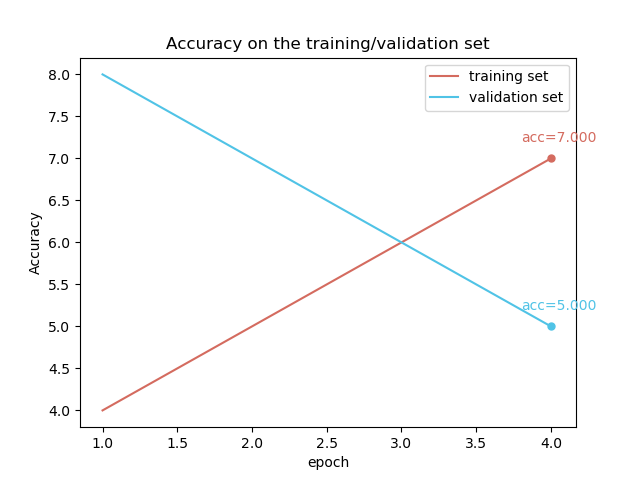
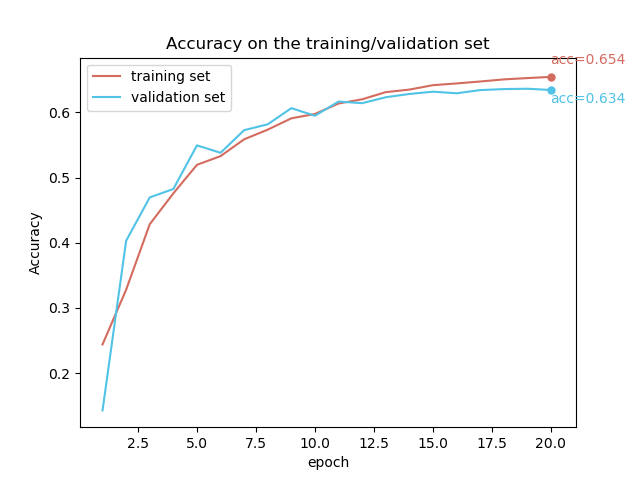
add confusion matrix and fix bugs

diff --git a/util.py b/util.py
@@ -1,27 +1,67 @@
 import torch
 from torchvision import transforms
 import matplotlib.pyplot as plt
+from sklearn.metrics import confusion_matrix
+import itertools
+import numpy as np
 import os
 
-def load_model(model, model_dir):
-    return model.load_state_dict(torch.load(os.path.join(model_dir, "model.pth")))
+def load_model(model, model_dir, model_name):
+    model.load_state_dict(torch.load(os.path.join(model_dir, "{}.pth".format(model_name))))
 
-def save_model(model, model_dir):
+def save_model(model, model_dir, model_name):
     if(not os.path.exists(model_dir)):
         os.makedirs(model_dir)
-    torch.save(model.state_dict(), os.path.join(model_dir, "model.pth"))
+    torch.save(model.state_dict(), os.path.join(model_dir, "{}.pth".format(model_name)))
 
 
-def plot_performance(loss_epoch, train_acc_epoch, val_acc_epoch, out_dir):
+def plot_confusion_matrix(labels, predicted , out_dir, normalize=True):
     if(not os.path.exists(out_dir)):
         os.makedirs(out_dir)
 
-    x = list(range(1, len(loss_epoch)+1))
+    matrix = confusion_matrix(labels, predicted)
+    # print(matrix)
+    if normalize:
+        matrix = matrix.astype('float') / matrix.sum(axis=1)[:, np.newaxis]
+    # print(matrix)
 
-    plt.plot(x, loss_epoch, color='#d46b5f')
+    classes = ['Angry', 'Disgust', 'Fear', 'Happy', 'Sad', 'Surprise', 'Neutral']
+
+    plt.imshow(matrix, interpolation='nearest', cmap=plt.cm.Reds)
+    plt.title("Confusion Matrix", fontsize=18)
+    plt.colorbar()
+    ticks = np.arange(len(classes))
+    plt.xticks(ticks, classes, rotation=45) # x: predicted
+    plt.yticks(ticks, classes) # y: true
+
+    threshold = matrix.max() / 2.
+    for i, j in itertools.product(range(matrix.shape[0]), range(matrix.shape[1])):
+        plt.text(j, i, format(matrix[i, j], '.2f' if normalize else 'd'),
+                 horizontalalignment="center",
+                 color="white" if matrix[i, j] > threshold else "black")
+
+    plt.ylabel('True label', fontsize=15)
+    plt.xlabel('Predicted label', fontsize=15)
+    plt.tight_layout()
+    plt.savefig(os.path.join(out_dir,"confusion_matrix.png"), format='png')
+
+
+def plot_performance(train_loss_epoch, val_loss_epoch, train_acc_epoch, val_acc_epoch, out_dir):
+    if(not os.path.exists(out_dir)):
+        os.makedirs(out_dir)
+
+    x = list(range(1, len(train_loss_epoch)+1))
+
+    plt.plot(x, train_loss_epoch, color='#d46b5f', label="training set")
+    plt.plot(x, val_loss_epoch, color='#50c3e6', label="validation set")
     plt.xlabel('epoch')
     plt.ylabel("Loss")
-    plt.title("Loss on the training set")
+    plt.title("Loss Curve")
+    plt.legend()
+    plt.text(x[-1]-0.02,train_loss_epoch[-1]-0.02,"loss={:.3f}".format(train_loss_epoch[-1]),color='#d46b5f')
+    plt.text(x[-1]-0.02,val_loss_epoch[-1]+0.02,"loss={:.3f}".format(val_loss_epoch[-1]),color='#50c3e6')
+    plt.scatter([x[-1]], [train_loss_epoch[-1]], s=25, c='#d46b5f')
+    plt.scatter([x[-1]], [val_loss_epoch[-1]], s=25, c='#50c3e6')
     plt.savefig(os.path.join(out_dir,"loss"))
     plt.clf()
 
@@ -31,8 +71,8 @@ def plot_performance(loss_epoch, train_acc_epoch, val_acc_epoch, out_dir):
     plt.ylabel("Accuracy")
     plt.title("Accuracy on the training/validation set")
     plt.legend()
-    plt.text(x[-1]-0.2,train_acc_epoch[-1]+0.2,"acc={:.3f}".format(train_acc_epoch[-1]),color='#d46b5f')
-    plt.text(x[-1]-0.2,val_acc_epoch[-1]+0.2,"acc={:.3f}".format(val_acc_epoch[-1]),color='#50c3e6')
+    plt.text(x[-1]-0.02,train_acc_epoch[-1]+0.02,"acc={:.3f}".format(train_acc_epoch[-1]),color='#d46b5f')
+    plt.text(x[-1]-0.02,val_acc_epoch[-1]-0.02,"acc={:.3f}".format(val_acc_epoch[-1]),color='#50c3e6')
     plt.scatter([x[-1]], [train_acc_epoch[-1]], s=25, c='#d46b5f')
     plt.scatter([x[-1]], [val_acc_epoch[-1]], s=25, c='#50c3e6')
     plt.savefig(os.path.join(out_dir,"acc"))
@@ -40,6 +80,10 @@ def plot_performance(loss_epoch, train_acc_epoch, val_acc_epoch, out_dir):
 
 #### For testing
 if __name__ == "__main__":
-    plot_performance([1,2,3,4], [4,5,6,7], [8,7,6,5], "./results")
+    # plot_performance([1,2,3,4], [3,4,5,6], [4,5,6,7], [8,7,6,5], "./models")
+
+    y = [0,1,2,2,3,4,5,6]
+    y_hat = [0,1,1,2,3,4,5,6]
+    plot_confusion_matrix(y, y_hat, "./results", True)
 
 

diff --git a/train_cnn.py b/train_cnn.py
@@ -28,7 +28,8 @@ def train(model, args):
     optimizer = optim.Adam(model.parameters(), lr=args.init_lr)
     # scheduler = optim.lr_scheduler.StepLR(optimizer, step_size=10, gamma=0.8)
 
-    loss_epoch = []
+    train_loss_epoch = []
+    val_loss_epoch = []
     train_acc_epoch = []
     val_acc_epoch = []
 
@@ -38,7 +39,7 @@ def train(model, args):
         model.train()
         correct = 0
         total = 0
-        mean_loss = 0
+        train_loss = 0
         for i, data in enumerate(train_loader, 0):
             # get the inputs
             img, label = data
@@ -56,7 +57,7 @@ def train(model, args):
             with torch.no_grad():
                 correct += torch.sum(torch.argmax(output, dim=1)==label).item()
             total += img.shape[0]
-            mean_loss += loss.item()
+            train_loss += loss.item()
 
             # print statistics after every 40 batches
             if((i+1) % 40 == 0):
@@ -66,25 +67,26 @@ def train(model, args):
                        len(train_loader), loss.item(), correct/total))
 
         # update information after one epoch
-        mean_loss /= len(train_loader)
+        train_loss /= len(train_loader)
         train_acc = correct/total
-        val_acc = evaluate(model, val_loader)
+        val_acc, val_loss = evaluate(model, criterion, val_loader)
         train_acc_epoch.append(train_acc)
         val_acc_epoch.append(val_acc)
-        loss_epoch.append(mean_loss)
+        train_loss_epoch.append(train_loss)
+        val_loss_epoch.append(val_loss)
 
         # print statistics after one epoch
         print('Epoch: [{}/{}][{}/{}]\t'
                       'Loss {:.3f} | Train Acc {:.3f} | Val Acc {:.3f}'
                       .format(epoch+1, args.epochs, len(train_loader),len(train_loader),
-                       mean_loss, train_acc, val_acc))
+                       train_loss, train_acc, val_acc))
 
         # check if need to adjust lr
         _adjust_lr(optimizer, args.init_lr, epoch+1) 
     
     # output model when training is over
-    util.save_model(model, args.model_dir)
-    util.plot_performance(loss_epoch, train_acc_epoch, val_acc_epoch, args.out_dir)
+    util.save_model(model, args.model_dir, args.model)
+    util.plot_performance(train_loss_epoch, val_loss_epoch, train_acc_epoch, val_acc_epoch, args.out_dir)
     print('Training Finished!')
     print('Training Time: {:.2f}s'.format(time.time()-start_time))
     print("Final acc on the training set: {:.3f}".format(train_acc))
@@ -94,19 +96,22 @@ def train(model, args):
 """
 Evaluate on the validation set
 """
-def evaluate(model, val_loader):
+def evaluate(model, criterion, val_loader):
     model.eval()
     count = 0
     total = 0
+    val_loss = 0
     with torch.no_grad():
         for i, data in enumerate(val_loader, 0):
             img, label = data
             output = model(img.to(device))
+            val_loss += criterion(output, label).item()
             output = np.argmax(output.cpu().numpy(), axis=1)
             count += np.sum(output==label.numpy())
             total += img.shape[0]
     acc = count / total
-    return acc
+    val_loss = val_loss / len(val_loader)
+    return acc, val_loss
 
 """
 adjust lr every `step_size` epochs by `decay`

diff --git a/test_cnn.py b/test_cnn.py
@@ -9,6 +9,7 @@ import argparse
 
 import util
 from net import Net
+from resnet import resnet18
 from dataset import build_dataset
 
 device = torch.device("cuda" if torch.cuda.is_available() else "cpu")
@@ -28,17 +29,27 @@ def evaluate(model, testDataset, args):
         for i, data in enumerate(test_loader, 0):
             # get the input
             img, label = data
+            img = img.to(device)
+            label = label.to(device)
             # get the output
-            output = model(img.to(device))
-            output = np.argmax(output.cpu().numpy(), axis=1)
+            output = model(img)
+            output = torch.argmax(output, dim=1)
             # count the number
-            count += np.sum(output==label.numpy())
+            count += torch.sum(output==label)
             total += img.shape[0]
 
             # print statistics after every 10 batch
             if((i+1) % 10 == 0):
                 print('Process: [{}/{}]\t'.format(i+1, len(test_loader)))
+            
+            if i == 0:
+                all_predicted = output
+                all_labels = label
+            else:
+                all_predicted = torch.cat((all_predicted, output),dim=0)
+                all_labels = torch.cat((all_labels, label),dim=0)
 
+    util.plot_confusion_matrix(all_labels.cpu().numpy(), all_predicted.cpu().numpy(), args.out_dir)
     acc = count / total
     print('Accuracy: {:.1f}%'.format(acc*100))
     print('Testing Time: {:.2f}s'.format(time.time()-start_time))
@@ -49,13 +60,18 @@ if __name__ == "__main__":
     parser = argparse.ArgumentParser()
     parser.add_argument('--batch_size', type=int, default=128)
     parser.add_argument('--img_dir', type=str, default="./dataset/images/val")
+    parser.add_argument('--model', type=str, default="resnet18")
     parser.add_argument('--model_dir', type=str, default="./models")
     parser.add_argument('--out_dir', type=str, default="./results")
     args = parser.parse_args()
 
-    model = Net()
+    if(args.model == "customized"):
+        model = Net()
+    elif(args.model == "resnet18"):
+        model = resnet18(num_classes=7)
+
     model = model.to(device)
-    model = util.load_model(model, args.model_dir)
+    util.load_model(model, args.model_dir, args.model)
     testDataset = build_dataset(args.img_dir, isTrain=False)
 
     evaluate(model, testDataset, args)

diff --git a/svm.py b/svm.py
@@ -55,7 +55,7 @@ def evaluate(model, X_val, y_val):
     # print(y_val_hat)
 
     print("  - Evalution time: {0:.1f} sec".format(time.time() - start_time))
-    print("  - Accuracy Score: {:.1f}".format(100*sum(y_val==y_val_hat)/len(y_val)))
+    print("  - Accuracy Score: {:.1f}%".format(100*sum(y_val==y_val_hat)/len(y_val)))
     print("  - Confusion Matrix: ", confusion_matrix(y_val, y_val_hat), sep='\n')
 
 

diff --git a/resnet.py b/resnet.py
@@ -1,8 +1,5 @@
-'''ResNet in PyTorch.
-For Pre-activation ResNet, see 'preact_resnet.py'.
-Reference:
-[1] Kaiming He, Xiangyu Zhang, Shaoqing Ren, Jian Sun
-    Deep Residual Learning for Image Recognition. arXiv:1512.03385
+'''
+Reference: Deep Residual Learning for Image Recognition. arXiv:1512.03385
 '''
 import torch
 import torch.nn as nn
